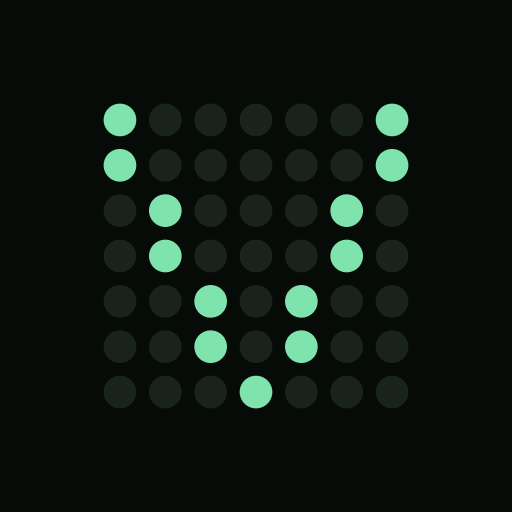
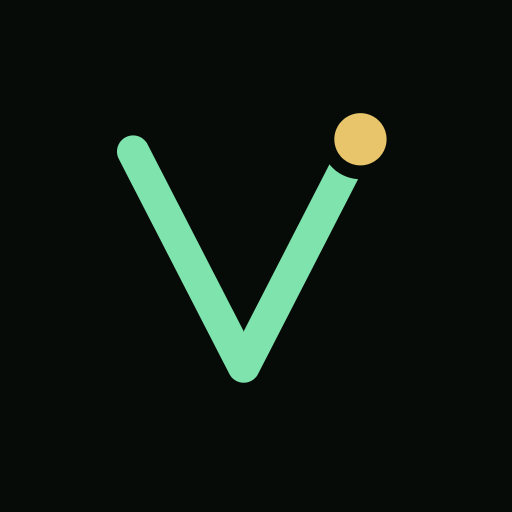
Vinter-Stand 9ad678d

Changed region(s): [[0.1875, 0.1875, 0.8125, 0.8125]]

diff --git a/app/static/index.html b/app/static/index.html
@@ -6,8 +6,8 @@
   <meta name="viewport" content="width=device-width, initial-scale=1, viewport-fit=cover">
   <title>Vinter</title>
   <link rel="manifest" href="/manifest.webmanifest">
-  <link rel="icon" type="image/png" sizes="32x32" href="/symbole/favicon-32.png">
-  <link rel="apple-touch-icon" href="/symbole/apple-touch-icon.png">
+  <link rel="icon" type="image/png" sizes="32x32" href="/symbole/favicon-32.png?v=2">
+  <link rel="apple-touch-icon" href="/symbole/apple-touch-icon.png?v=2">
   <meta name="apple-mobile-web-app-capable" content="yes">
   <meta name="mobile-web-app-capable" content="yes">
   <meta name="apple-mobile-web-app-status-bar-style" content="black">

diff --git a/app/seiten/anmelden.html b/app/seiten/anmelden.html
@@ -7,8 +7,8 @@
   <meta name="robots" content="noindex">
   <title>Vinter · Anmelden</title>
   <link rel="manifest" href="/manifest.webmanifest">
-  <link rel="icon" type="image/png" sizes="32x32" href="/symbole/favicon-32.png">
-  <link rel="apple-touch-icon" href="/symbole/apple-touch-icon.png">
+  <link rel="icon" type="image/png" sizes="32x32" href="/symbole/favicon-32.png?v=2">
+  <link rel="apple-touch-icon" href="/symbole/apple-touch-icon.png?v=2">
   <meta name="apple-mobile-web-app-capable" content="yes">
   <meta name="mobile-web-app-capable" content="yes">
   <meta name="apple-mobile-web-app-status-bar-style" content="black">

diff --git a/scripts/app_symbole.py b/scripts/app_symbole.py
@@ -1,8 +1,10 @@
-"""Erzeugt die App-Symbole für den Home-Bildschirm (iPhone, Android) in app/static/symbole/.
+r"""Erzeugt die App-Symbole für den Home-Bildschirm (iPhone, Android) und das Favicon in app/static/symbole/.
 
-Ein "V" aus LED-Punkten wie die Wortmarke, Mint auf dem dunklen Vinter-Grund. Ohne Zusatzpaket: Die PNGs
-werden direkt geschrieben (zlib), die Punkte mit weicher Kante gerechnet.
-Start: .venv\\Scripts\\python.exe scripts\\app_symbole.py
+Zeichen (seit 24.11.2026): ein "V" als Kurslinie. Erst fällt der Kurs, dann steigt er über den Start hinaus;
+am Ende sitzt der goldene Live-Punkt. Mint auf dem fast schwarzen Vinter-Grund, ohne Schrift, damit es auch
+als Favicon mit 32 Pixeln lesbar bleibt. Ohne Zusatzpaket: Die PNGs werden direkt geschrieben (zlib),
+die Linie wird über den Abstand zu den Strecken mit weicher Kante gerechnet.
+Start: .venv\Scripts\python.exe scripts\app_symbole.py
 """
 import struct
 import zlib
@@ -11,39 +13,45 @@ from pathlib import Path
 ZIEL = Path(__file__).resolve().parent.parent / "app" / "static" / "symbole"
 GRUND = (0x07, 0x0B, 0x08)
 MINT = (0x7E, 0xE3, 0xAD)
-AUS = (0x1A, 0x22, 0x1D)  # ausgeschaltete LEDs, ganz leicht sichtbar
-V = ["X.....X",
-     "X.....X",
-     ".X...X.",
-     ".X...X.",
-     "..X.X..",
-     "..X.X..",
-     "...X..."]
+GOLD = (0xE8, 0xC5, 0x6A)
+# Kurslinie in Anteilen des Zeichenfelds (0..1): links oben, Tief, rechts höher als der Start
+LINIE = [(0.10, 0.16), (0.46, 0.86), (0.84, 0.12)]
+PUNKT = LINIE[-1]
+
+
+def _abstand(px, py, a, b):
+    (ax, ay), (bx, by) = a, b
+    dx, dy = bx - ax, by - ay
+    t = max(0.0, min(1.0, ((px - ax) * dx + (py - ay) * dy) / (dx * dx + dy * dy)))
+    return ((px - ax - t * dx) ** 2 + (py - ay - t * dy) ** 2) ** 0.5
+
+
+def _mischen(unten, oben, deckung):
+    return tuple(round(u + (o - u) * deckung) for u, o in zip(unten, oben))
 
 
 def bild(groesse: int, anteil: float) -> bytes:
-    """anteil: wie viel der Kantenlänge das Punktraster einnimmt (maskierbare Symbole brauchen Rand)."""
-    n = len(V)
+    """anteil: wie viel der Kantenlänge das Zeichen einnimmt (maskierbare Symbole brauchen Rand)."""
     feld = groesse * anteil
-    schritt = feld / n
-    radius = schritt * 0.36
     start = (groesse - feld) / 2
+    punkte = [(start + x * feld, start + y * feld) for x, y in LINIE]
+    breite = max(2.2, feld * 0.105) / 2           # halbe Strichstärke
+    pr = max(2.0, feld * 0.085)                   # Live-Punkt
+    ring = pr + max(1.0, feld * 0.045)            # dunkler Spalt um den Punkt
+    px0, py0 = punkte[-1]
     zeilen = []
     for y in range(groesse):
-        zeile = bytearray([0])  # Filter "none"
+        zeile = bytearray([0])
         for x in range(groesse):
-            farbe = GRUND
-            gx, gy = (x + 0.5 - start) / schritt, (y + 0.5 - start) / schritt
-            i, j = int(gy), int(gx)
-            if 0 <= i < n and 0 <= j < n:
-                cx, cy = start + (j + 0.5) * schritt, start + (i + 0.5) * schritt
-                d = ((x + 0.5 - cx) ** 2 + (y + 0.5 - cy) ** 2) ** 0.5
-                deckung = max(0.0, min(1.0, radius - d + 0.5))
-                if deckung:
-                    an = MINT if V[i][j] == "X" else AUS
-                    farbe = tuple(round(g + (a - g) * deckung) for g, a in zip(GRUND, an))
+            mx, my = x + 0.5, y + 0.5
+            d = min(_abstand(mx, my, punkte[i], punkte[i + 1]) for i in range(len(punkte) - 1))
+            farbe = _mischen(GRUND, MINT, max(0.0, min(1.0, breite - d + 0.5)))
+            dp = ((mx - px0) ** 2 + (my - py0) ** 2) ** 0.5
+            farbe = _mischen(farbe, GRUND, max(0.0, min(1.0, ring - dp + 0.5)))
+            farbe = _mischen(farbe, GOLD, max(0.0, min(1.0, pr - dp + 0.5)))
             zeile += bytes(farbe)
         zeilen.append(bytes(zeile))
+
     def block(art, daten):
         return struct.pack(">I", len(daten)) + art + daten + struct.pack(">I", zlib.crc32(art + daten) & 0xFFFFFFFF)
     kopf = struct.pack(">IIBBBBB", groesse, groesse, 8, 2, 0, 0, 0)
@@ -52,9 +60,9 @@ def bild(groesse: int, anteil: float) -> bytes:
 
 def main():
     ZIEL.mkdir(parents=True, exist_ok=True)
-    for name, groesse, anteil in [("apple-touch-icon.png", 180, 0.62), ("symbol-192.png", 192, 0.62),
-                                  ("symbol-512.png", 512, 0.62), ("symbol-maskierbar-512.png", 512, 0.5),
-                                  ("favicon-32.png", 32, 0.86)]:
+    for name, groesse, anteil in [("apple-touch-icon.png", 180, 0.60), ("symbol-192.png", 192, 0.60),
+                                  ("symbol-512.png", 512, 0.60), ("symbol-maskierbar-512.png", 512, 0.48),
+                                  ("favicon-32.png", 32, 0.84)]:
         (ZIEL / name).write_bytes(bild(groesse, anteil))
         print(name)
 

diff --git a/app/status.py b/app/status.py
@@ -19,7 +19,7 @@ from urllib.parse import urlsplit
 
 from .konfig import ANMELDUNG, DATEN, PROGRAMM
 
-VERSION = "0.10.0 (24.11.2026)"
+VERSION = "0.11.0 (24.11.2026)"
 START = datetime.now()
 _sperre = threading.Lock()
 _jobs: dict[str, dict] = {}
